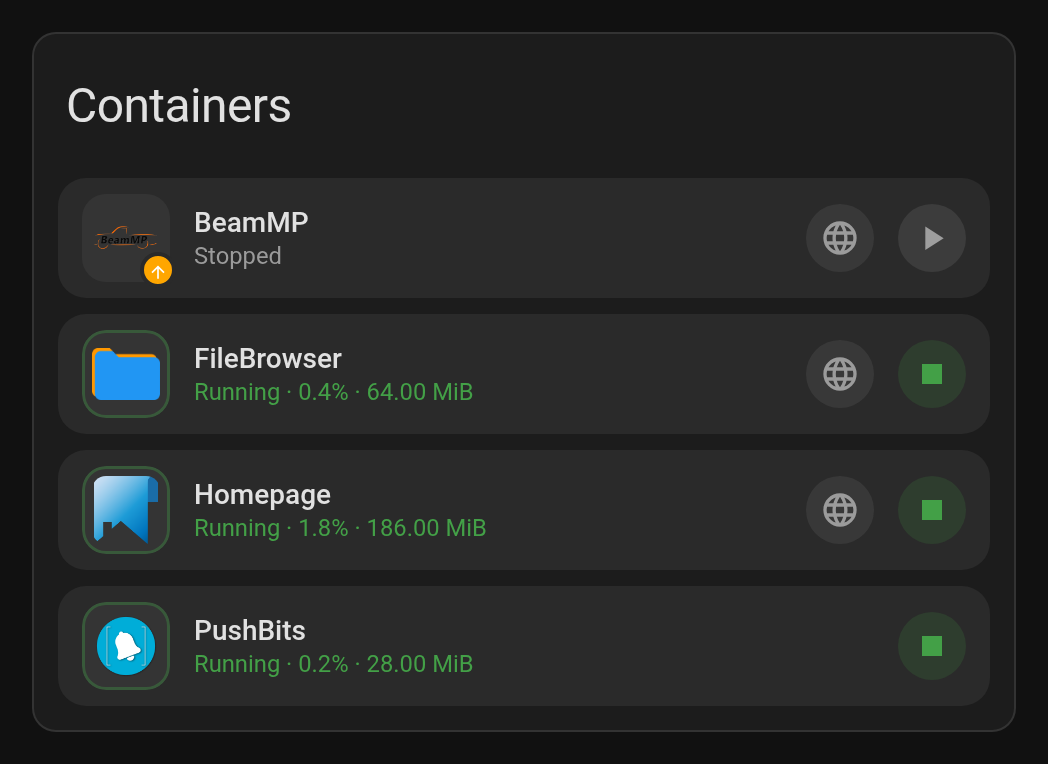
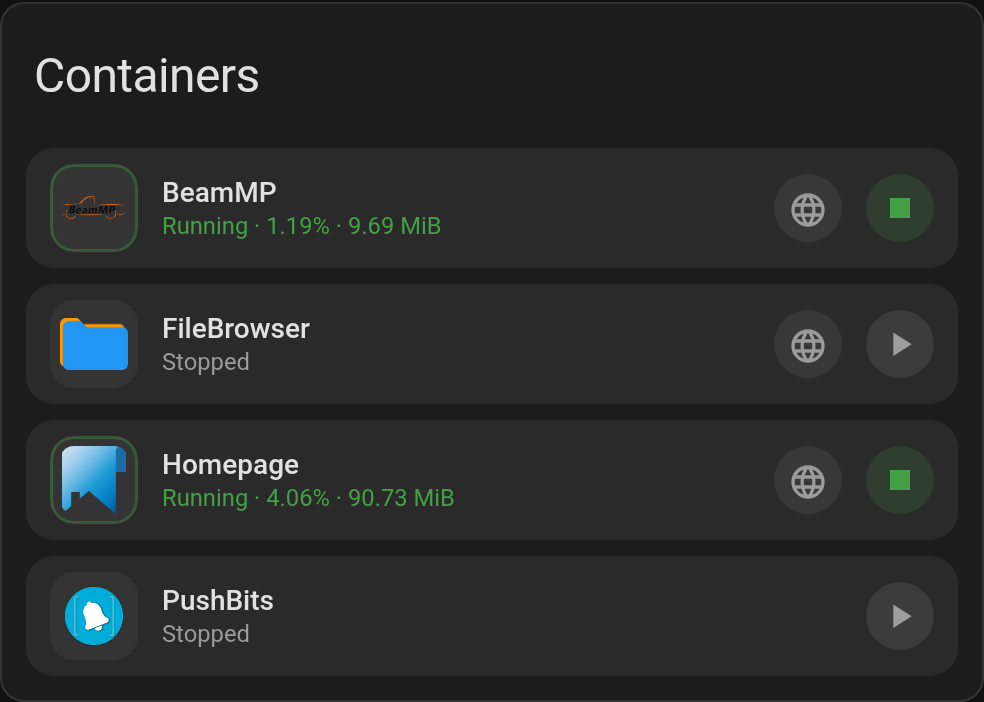
feat(devices): show cpu and memory on compose stack rows
- Give compose_stack the same cpu and memory metrics as the other guest
  kinds, so `secondary_info: cpu` and `memory` resolve on a stack instead of
  showing nothing
- Keep the running/total counter first under `auto` and add the two usage
  figures after it: the counter is the one number a stack always reports,
  while the usage exists only while the integration's enable_compose_stats
  option is on, so a row falls back to the counter rather than to nothing
- Add the stats entities to the Compose fixture and a stats-off variant, and
  cover both the fallback and the two explicit modes
- Retake the README screenshots against the rebuilt demo stacks

Claude-Session: https://claude.ai/code/session_013TJ5hKrFHEQGv4XWmdX3jq

diff --git a/tests/entities.test.ts b/tests/entities.test.ts
@@ -20,7 +20,16 @@ import {
   metricsForMode,
   resolveMetrics,
 } from '../src/devices';
-import { COMPOSE, COMPOSE_ENTITIES, DISK, DOCKER, DOCKER_ENTITIES, SERVER, entity } from './fixtures';
+import {
+  COMPOSE,
+  COMPOSE_ENTITIES,
+  COMPOSE_ENTITIES_NO_STATS,
+  DISK,
+  DOCKER,
+  DOCKER_ENTITIES,
+  SERVER,
+  entity,
+} from './fixtures';
 
 /**
  * The same entities, as a core that omits translation keys would send them.
@@ -129,9 +138,10 @@ describe('metricsForMode and findMetricEntity', () => {
 /**
  * The Compose stack, which is the one kind whose measurement is a pair.
  *
- * A stack reports no CPU and no memory at all — MOS measures those one
- * container at a time — so `auto` resolves to how many of its containers are up
- * over how many it has, and the two explicit modes resolve to nothing.
+ * `auto` leads with how many of its containers are up over how many it has,
+ * then adds the CPU and memory every guest kind has. Those two only exist while
+ * the integration's Compose stats option is on, so falling back to the counter
+ * alone is the default installation rather than an edge case.
  */
 describe('Compose stacks', () => {
   it('finds the state sensor, the switch and the update sensor', () => {
@@ -151,11 +161,27 @@ describe('Compose stacks', () => {
     );
   });
 
-  it('resolves the running count over the container count under auto', () => {
+  it('leads auto with the running count over the container count', () => {
     const [metric] = resolveMetrics(COMPOSE_ENTITIES, metricsForMode('compose_stack', 'auto'));
 
     expect(metric.entity.entity_id).toBe('sensor.pluto_compose_media_running_containers');
     expect(metric.over?.entity_id).toBe('sensor.pluto_compose_media_containers');
+  });
+
+  it('adds the usage summed over the services after the counter', () => {
+    const resolved = resolveMetrics(COMPOSE_ENTITIES, metricsForMode('compose_stack', 'auto'));
+
+    expect(resolved.map((m) => m.entity.entity_id)).toEqual([
+      'sensor.pluto_compose_media_running_containers',
+      'sensor.pluto_compose_media_cpu_usage',
+      'sensor.pluto_compose_media_memory_usage',
+    ]);
+  });
+
+  it('falls back to the counter alone while the stats option is off', () => {
+    const resolved = resolveMetrics(COMPOSE_ENTITIES_NO_STATS, metricsForMode('compose_stack', 'auto'));
+
+    expect(resolved.map((m) => m.entity.entity_id)).toEqual(['sensor.pluto_compose_media_running_containers']);
   });
 
   it('keeps the count when the total is missing, rather than dropping both', () => {
@@ -166,9 +192,18 @@ describe('Compose stacks', () => {
     expect(metric.over).toBeUndefined();
   });
 
-  it('has no CPU or memory to ask for', () => {
-    expect(metricsForMode('compose_stack', 'cpu')).toEqual([]);
-    expect(metricsForMode('compose_stack', 'memory')).toEqual([]);
+  it('answers the explicit CPU and memory modes like the other guests', () => {
+    expect(
+      resolveMetrics(COMPOSE_ENTITIES, metricsForMode('compose_stack', 'cpu')).map((m) => m.entity.entity_id),
+    ).toEqual(['sensor.pluto_compose_media_cpu_usage']);
+    expect(
+      resolveMetrics(COMPOSE_ENTITIES, metricsForMode('compose_stack', 'memory')).map((m) => m.entity.entity_id),
+    ).toEqual(['sensor.pluto_compose_media_memory_usage']);
+  });
+
+  it('resolves neither explicit mode while the stats option is off', () => {
+    expect(resolveMetrics(COMPOSE_ENTITIES_NO_STATS, metricsForMode('compose_stack', 'cpu'))).toEqual([]);
+    expect(resolveMetrics(COMPOSE_ENTITIES_NO_STATS, metricsForMode('compose_stack', 'memory'))).toEqual([]);
   });
 });
 

diff --git a/src/devices.ts b/src/devices.ts
@@ -111,10 +111,10 @@ interface KindMetrics {
    *
    * Chosen per kind rather than uniformly, because the interesting number is
    * not the same everywhere: a guest is busy or idle, a disk is warm or cool,
-   * a pool is full or empty. For three of the four guest kinds this is CPU and
-   * memory; a Compose stack has neither — MOS measures those one container at a
-   * time and a stack has several — and shows how many of its containers are up
-   * instead. The other three have one number each and no CPU or memory at all.
+   * a pool is full or empty. For the four guest kinds this is CPU and memory,
+   * and a Compose stack leads with how many of its containers are up — a figure
+   * no other kind has. The other three have one number each and no CPU or
+   * memory at all.
    */
   readonly auto: readonly MetricRef[];
 }
@@ -153,6 +153,8 @@ interface KindInfo {
  */
 const UPDATE_KEY_SUFFIX = '_update_available';
 
+const composeMetrics = guestMetrics('compose');
+
 export const KIND_INFO: Readonly<Record<MosDeviceKind, KindInfo>> = {
   docker_container: {
     icon: 'mdi:docker',
@@ -168,18 +170,20 @@ export const KIND_INFO: Readonly<Record<MosDeviceKind, KindInfo>> = {
     stateKeySuffix: 'state',
     hasPower: true,
     updateTranslationKey: 'compose_update_available',
-    // No CPU and no memory, by the integration's own decision: Docker reports
-    // usage one container at a time and a stack has several, so a per-stack
-    // figure would cost a request per service to produce a number nobody asked
-    // for. The two counters are what a stack has instead, and they are one
-    // figure — how many of its containers are up.
+    // The same CPU and memory as the other guests, plus the counter no other
+    // kind has. It leads because it is the one figure a stack always reports:
+    // CPU and memory are summed from the member containers and only exist while
+    // the integration's separate Compose stats option is on, so a row falls
+    // back to the counter alone rather than to nothing.
     metrics: {
+      ...composeMetrics,
       auto: [
         {
           translationKey: 'compose_running_containers',
           keySuffix: 'running_containers',
           over: { translationKey: 'compose_container_count', keySuffix: 'container_count' },
         },
+        ...composeMetrics.auto,
       ],
     },
   },

diff --git a/tests/fixtures.ts b/tests/fixtures.ts
@@ -123,9 +123,11 @@ export const DOCKER_ENTITIES: EntityRegistryEntry[] = [
 /**
  * Compose stack entities as the integration creates them for one stack.
  *
- * The counter pair is the difference that matters here: a stack has no CPU or
- * memory sensor at all — MOS measures those one container at a time — and
- * carries how many of its containers are up beside how many it has instead.
+ * The counter pair is the difference that matters here: on top of the CPU and
+ * memory every guest has, a stack carries how many of its containers are up
+ * beside how many it has. Its stats sensors are included because the option
+ * behind them is on for this stack; `COMPOSE_ENTITIES_NO_STATS` is the same
+ * stack with it off.
  */
 export const COMPOSE_ENTITIES: EntityRegistryEntry[] = [
   entity({
@@ -145,6 +147,18 @@ export const COMPOSE_ENTITIES: EntityRegistryEntry[] = [
     device_id: 'dev-compose',
     translation_key: 'compose_container_count',
     unique_id: `${ENTRY}_compose_media_container_count`,
+  }),
+  entity({
+    entity_id: 'sensor.pluto_compose_media_cpu_usage',
+    device_id: 'dev-compose',
+    translation_key: 'compose_cpu_usage',
+    unique_id: `${ENTRY}_compose_media_cpu_usage`,
+  }),
+  entity({
+    entity_id: 'sensor.pluto_compose_media_memory_usage',
+    device_id: 'dev-compose',
+    translation_key: 'compose_memory_usage',
+    unique_id: `${ENTRY}_compose_media_memory_usage`,
   }),
   entity({
     entity_id: 'switch.pluto_compose_media_power',
@@ -173,3 +187,13 @@ export const COMPOSE_ENTITIES: EntityRegistryEntry[] = [
     unique_id: `${ENTRY}_compose_media_autostart`,
   }),
 ];
+
+/**
+ * The same stack on an installation that leaves the Compose stats option off.
+ *
+ * The default state, and the one where `auto` has to fall back to the counter
+ * pair rather than showing nothing.
+ */
+export const COMPOSE_ENTITIES_NO_STATS: EntityRegistryEntry[] = COMPOSE_ENTITIES.filter(
+  (candidate) => !candidate.entity_id.endsWith('_cpu_usage') && !candidate.entity_id.endsWith('_memory_usage'),
+);

diff --git a/README.md b/README.md
@@ -128,8 +128,11 @@ Notes on individual options:
 - `sort: state` lists running first, then paused, then stopped, alphabetically within each. Disks
   and pools stay alphabetical either way.
 - `secondary_info: auto` picks per kind: CPU and memory for a container or VM, how many of a
-  Compose stack's containers are up (`3/5`), temperature for a disk, free space for a pool, load
-  for the UPS. A value the server cannot report is left out.
+  Compose stack's containers are up (`3/5`) followed by its CPU and memory, temperature for a disk,
+  free space for a pool, load for the UPS. A value the server cannot report is left out.
+- A Compose stack reports CPU and memory only while the integration's **Compose stack stats** option
+  is on — it is off by default, because a stack is measured through its services and costs one
+  request per running service on every poll. Without it a stack row shows the container count alone.
 - `show_server_summary` also shows the server name when there is only one server.
 - A fault is what the integration marks with Home Assistant's `problem` device class — a SMART
   warning, an unhealthy container, a degraded pool, a UPS on bypass. The badge names what it found.

diff --git a/docs/development/ARCHITECTURE.md b/docs/development/ARCHITECTURE.md
@@ -118,9 +118,11 @@ purpose — and picks up the rest from the other entities on the same device.
   is dropped rather than printed.
 
   A `MetricRef` may name a total through `over`, which `resolveMetrics()` resolves alongside it and
-  the row prints as one figure — `3/5`. That is what a Compose stack shows under `auto`: it has no
-  CPU or memory sensor at all, because MOS measures those one container at a time and a stack has
-  several, and its two counters say nothing apart. A device missing the total keeps the count.
+  the row prints as one figure — `3/5`. That is what a Compose stack leads with under `auto`, since
+  its two counters say nothing apart; a device missing the total keeps the count. Its CPU and memory
+  follow, summed by the integration over the stack's member containers. Those two exist only while
+  the integration's `enable_compose_stats` option is on, so a stack row falls back to the counter
+  alone rather than to nothing.
 
 - **Badges** — a fault badge and an update badge, both drawn on the icon. The update badge reads
   the kind's `update_available` binary sensor; only Docker containers and Compose stacks have one. The fault badge is
